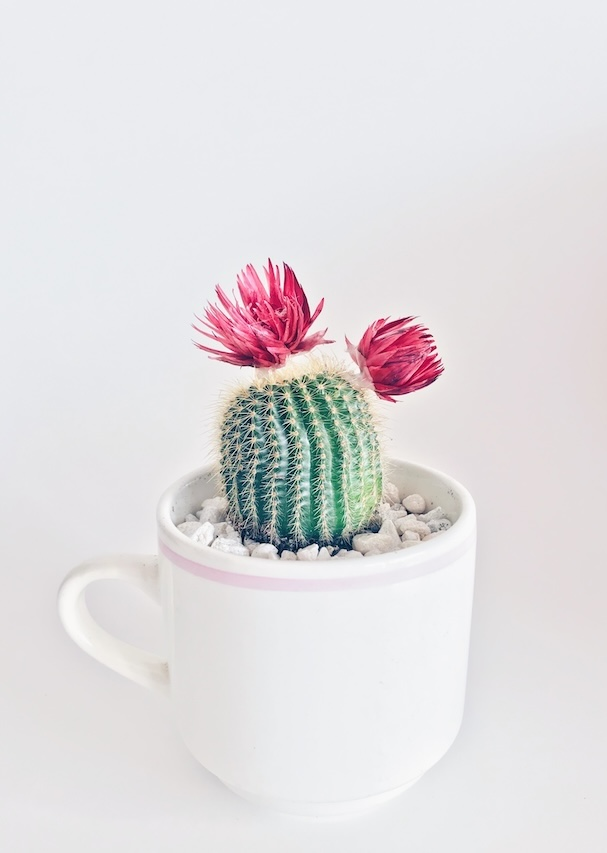
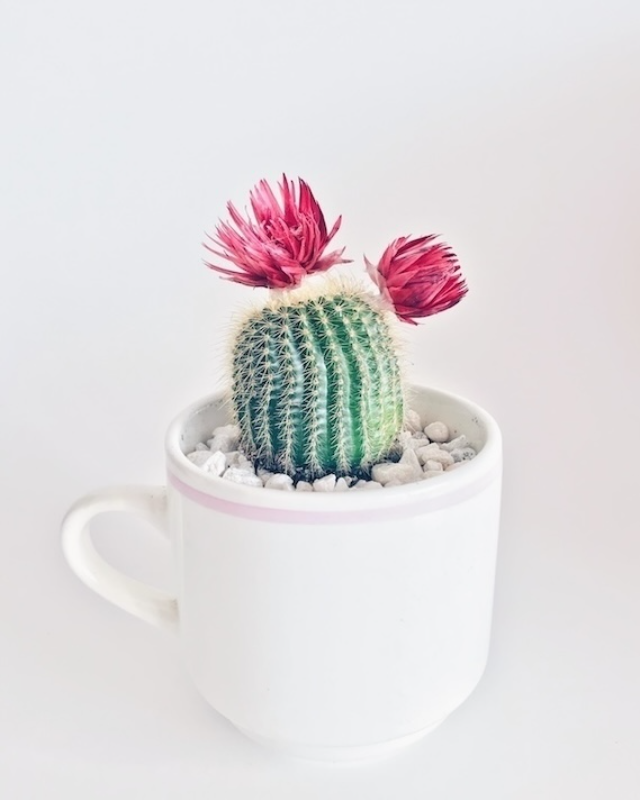
adjusted images ans styled the navbar

Changed region(s): [[0.2372, 0.2188, 0.8007, 0.6875], [0.089, 0.6562, 0.1483, 0.75], [0.2669, 0.75, 0.2965, 0.7812]]

diff --git a/src/pages/cart.js b/src/pages/cart.js
@@ -5,12 +5,11 @@ import { ShopContext } from "../context/shop-context";
 import ItemsInCart from "./ItemsInCart"
 import "./cart.css";
 import { useNavigate } from "react-router-dom";
-import plantDetail from "../pages/plantDetail";
+// import plantDetail from "../pages/plantDetail";
 
 function Cart() {
     const { cartItems, totalCartAmount } = useContext(ShopContext);
     const totalAmount = totalCartAmount()
-
     const navigate = useNavigate();
 
     return (
@@ -18,7 +17,7 @@ function Cart() {
             <div>
                 <h1></h1>
             </div>
-            <div className="cart">
+            <div className="cart-item">
                 {/* for each plant, if the plant.id has a value that not equal to 0, it means it's greater than 0  */ }
                 {/* means the plant is already in the cart  */ }
                 {allPlants.map((plant) => {
@@ -32,10 +31,10 @@ function Cart() {
             <div className="checkout">
                 <p>Total: £{totalAmount} </p>
                 <button onClick={() => (navigate("/"))}>Continue Shopping</button> {/* "/" -> takes us to the main page */}
-                <button onClick={() => navigate()}>CProceed to Checkout</button>
-                {/* <button>Proceed to Checkout</button> */}
+                {/* <button onClick={proceedToCheckout}>Proceed to Checkout</button> */}
+                <button>Proceed to Checkout</button>
             </div>
-        : <h2>Your Shopping Cart is Empty!</h2>}
+        : <h2>Your Basket is Empty!</h2>}
         </div>
     )
 }

diff --git a/src/allPlants.js b/src/allPlants.js
@@ -1,8 +1,8 @@
 
 import snakePlant from "./assets/snakePlant.png"
-import rattlesnake from "./assets/rattlesnake.png"
+import rattleSnake from "./assets/rattleSnake.png"
 import stringOfHearts from "./assets/stringOfHearts.png"
-import chineeseEvergreen from "./assets/cineeseEvergreen.png"
+import chineseEvergreen from "./assets/chineseEvergreen.png"
 import fiddleLeafFig from "./assets/fiddleLeafFig.png"
 import pincushion from "./assets/pincushion.png"
 
@@ -34,14 +34,14 @@ export const allPlants = [
         "id": 4,
         plantName: "Chinese Evergreen",
         price: 25.99,
-        plantImage: chineeseEvergreen,
+        plantImage: chineseEvergreen,
         description: `The Chinese Evergreen, scientifically known as Aglaonema, is a genus of flowering plants in the Araceae family. Native to tropical and subtropical regions of Asia, including China, Thailand, Indonesia, and the Philippines, Chinese Evergreens are popular ornamental plants prized for their attractive foliage and ease of care.`
     },
     {
         "id": 5,
         plantName: "Rattlesnake",
         price: 28.99,
-        plantImage: rattlesnake,
+        plantImage: rattleSnake,
         description: `The Rattlesnake Plant, scientifically known as Calathea lancifolia, is a species of tropical plant native to Brazil. It belongs to the Marantaceae family and is appreciated for its striking foliage and unique leaf patterns.`
     },
     {

diff --git a/src/components/Navbar.css b/src/components/Navbar.css
@@ -1,25 +1,34 @@
 .Navbar {
-        width: 100%;
-        height: 80px;
-        background-color: rgb(75,143,18);
-        display: flex;
-        justify-content: flex-end;
-        align-items: center;
-        
-    }
-    
-    .links {
-        margin-right: 100px;
-        display: flex;
-        align-items: center;
-    }
-    
-    .links a {
-        text-decoration: none;
-        color: white;
-        margin-left: 20px;
-        font-size: 22px;
-    }
+    width: 100%;
+    height: 80px;
+    background-color: rgb(75,143,18);
+    display: flex;
+    justify-content: flex-end;
+    align-items: center;
+    transition: background-color 0.3s ease; /* creates smoother color change */
+}
 
-    
-    
+/* Change background color on hover */
+.Navbar:hover {
+    background-color: rgb(55,113,0); 
+}
+
+.links {
+    margin-right: 100px;
+    display: flex;
+    align-items: center;
+}
+
+.links a {
+    text-decoration: none;
+    color: white;
+    margin-left: 20px;
+    font-size: 22px;
+    transition: color 0.3s ease; 
+}
+
+/* Change text color on hover */
+.links a:hover {
+    color: rgba(255,255,255,0.7); 
+}
+

diff --git a/src/pages/plantDetail.js b/src/pages/plantDetail.js
@@ -1,4 +1,4 @@
-import React, { useContext, useEffect } from "react";
+import React, { useContext } from "react";
 import { useParams } from "react-router-dom";
 import { ShopContext } from "../context/shop-context";
 import { allPlants } from "../allPlants";
@@ -30,7 +30,7 @@ function PlantDetail() {
                     {/* ".split('\n')" splits the text in "plant.description" into paragraphs when there's a newline character ('\n'). */}
                     {/* ".map((paragraph, index)" loops over each paragraph that resulted from splitting the text and performs an action for each one. */}
                     {plant.description.split('\n').map((paragraph, index) => (  
-                        <p key={index}>{paragraph}</p> //  "key={index}" is a unique identifier.
+                        <p key={index}>{paragraph}</p> //  "key={index}" <- unique identifier.
                     ))}
                 </div>
                 <p><b>Price: £{plant.price}</b></p>

diff --git a/src/pages/plantDetail.css b/src/pages/plantDetail.css
@@ -33,7 +33,7 @@
 
 .card-image img{
     width: 500px;
-    height: 700px;
+    max-height: 700px;
 }
 
 
